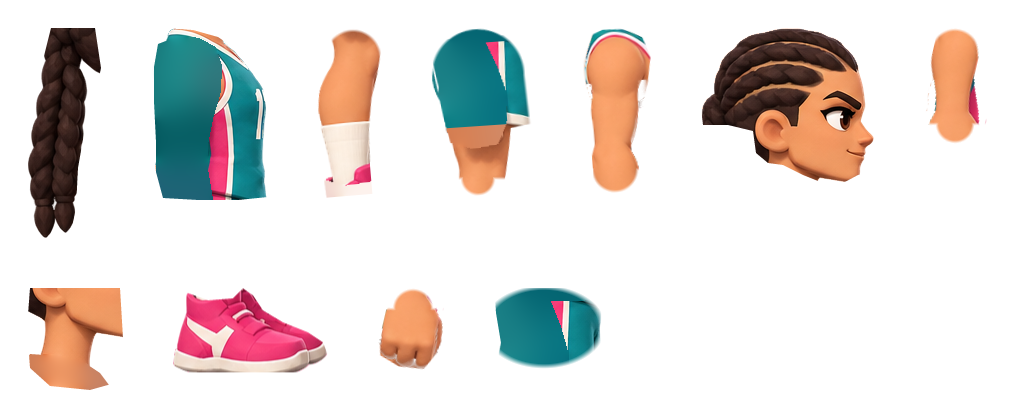
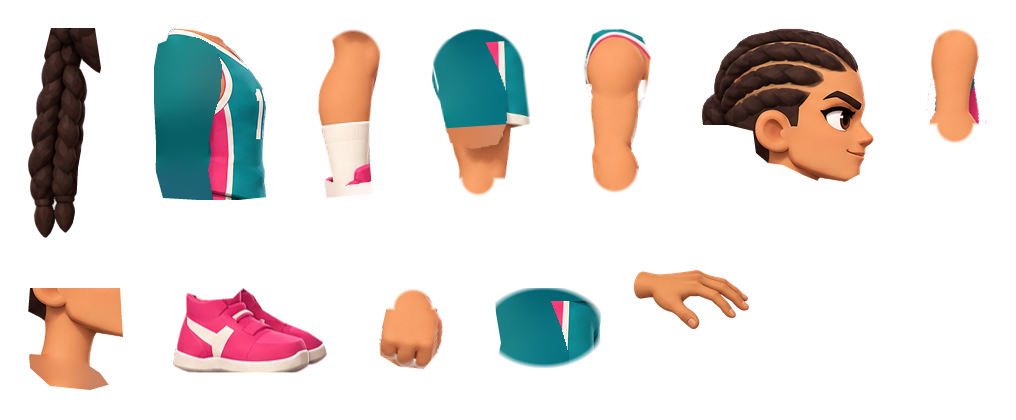
Grafik bereinigt: freie Aufhängungen und offene Hände beim Dribbeln

Changed region(s): [[0.6102, 0.619, 0.7628, 0.7738]]

diff --git a/tools/newdesign/characters.js b/tools/newdesign/characters.js
@@ -409,6 +409,30 @@ function skinned(reg, below) {
 
 // ------------------------------------------------------------------ eine Figur
 
+// Offene Dribbelhände aus dem ergänzenden Bogen: nach rechts gestreckt, Handfläche unten.
+// Der Bogen bleibt als Quelle erhalten; die Hände landen samt Umriss im normalen Figurenatlas.
+async function openHand(id, ppu) {
+    const index = ['dre', 'titan', 'nova'].indexOf(id);
+    if (index < 0) return null;
+    const sheet = sharp(path.join(__dirname, 'sources/dribble-hands.png'));
+    const meta = await sheet.metadata(), cell = Math.floor(meta.width / 3);
+    const { data, info } = await sheet.extract({ left: index * cell, top: 0, width: cell, height: meta.height })
+        .ensureAlpha().raw().toBuffer({ resolveWithObject: true });
+    let x0 = cell, y0 = info.height, x1 = 0, y1 = 0;
+    for (let y = 0; y < info.height; y++) for (let x = 0; x < cell; x++) if (data[(y * cell + x) * 4 + 3] > 64) {
+        x0 = Math.min(x0, x); y0 = Math.min(y0, y); x1 = Math.max(x1, x); y1 = Math.max(y1, y);
+    }
+    const width = Math.round(ppu * [0.40, 0.44, 0.36][index]);
+    const scaled = await sharp(data, { raw: info }).extract({ left: x0, top: y0, width: x1 - x0 + 1, height: y1 - y0 + 1 })
+        .resize(width).extend({ top: 4, bottom: 4, left: 4, right: 4, background: '#00000000' })
+        .raw().toBuffer({ resolveWithObject: true });
+    const W = scaled.info.width, H = scaled.info.height;
+    const buf = Float32Array.from(scaled.data, v => v / 255);
+    const mask = new Float32Array(W * H);
+    for (let i = 0; i < mask.length; i++) mask[i] = buf[i * 4 + 3];
+    return { W, H, buf, mask, px: 4 + width * 0.09, py: 4 + (H - 8) * 0.30 };
+}
+
 async function buildFigure(id) {
     const F = FIG[id];
     const img = await load(id + '.png');
@@ -480,6 +504,8 @@ async function buildFigure(id) {
     armParts(arm, '');
     // hinterer Arm ohne Ärmel (Kompressionsärmel nur am vorderen Arm): helle Stoffpixel bekommen die Hautfarbe der Faust
     if (F.farSkin) armParts(skinned(arm, J.wrist), 'Far');
+    const opened = await openHand(id, ppu);
+    if (opened) parts.OpenHand = opened;
 
     // Maße in Spieleinheiten (Bild-y zeigt nach unten → Spiel-y umdrehen)
     const u = (A, B) => [(B[0] - A[0]) / ppu, -(B[1] - A[1]) / ppu];

diff --git a/tools/newdesign/stages.def.js b/tools/newdesign/stages.def.js
@@ -63,7 +63,7 @@ module.exports = [
         ground: { x: [0, 1345], pad: 9, holes: [[225, 305], [270, 450], [470, 560], [700, 1000], [1040, 1200]] },
         cells: {
             1: ['mushroom', 'stand', {}],
-            2: ['swing', 'stand', { levels: 'swing' }],
+            2: ['swing', 'prop', { levels: 'swing' }],
             3: ['stump', 'stand', { light: [255, 160, 40] }],
             4: ['branch', 'prop', { tags: ['mid'] }],
             6: ['end', 'end', {}],
@@ -75,7 +75,9 @@ module.exports = [
             12: ['leaves', 'prop', { tags: ['back'] }],
         },
         derived: [
-            { name: 'plank', from: 2, kind: 'hang', role: 'float', rope: 'rope' },
+            // Koordinaten im freigestellten Schaukelbild: Brett und Knoten, ohne Gestellfüße.
+            { name: 'plank', from: 2, kind: 'hang', role: 'float', rope: 'rope',
+                keep: [[42, 104, 194, 133], [50, 90, 71, 149], [165, 90, 187, 149]], anchors: [60, 177] },
         ],
     }),
     S('03-Regenwacht.png', {
@@ -142,7 +144,7 @@ module.exports = [
         ground: { x: [0, 1420], pad: 3, holes: [[226, 302], [284, 336], [418, 472], [498, 538], [678, 728], [830, 950], [1036, 1112], [1118, 1162], [1288, 1335], [0, 240]] },
         cells: {
             1: ['table', 'stand', {}],
-            2: ['anvil_frame', 'stand', { levels: 'anvil' }],
+            2: ['anvil_frame', 'prop', { levels: 'anvil' }],
             3: ['lava_ped', 'stand', { light: [255, 110, 30], cut: { glow: true } }],
             4: ['grate', 'stand', { light: [255, 120, 30] }],
             6: ['end', 'end', {}],
@@ -154,7 +156,9 @@ module.exports = [
             12: ['vent', 'prop', { tags: ['back', 'mid'], light: [255, 120, 30], cut: { glow: true } }],
         },
         derived: [
-            { name: 'anvil_hang', from: 2, kind: 'hang', role: 'float', rope: 'chain' },
+            // Nur die beiden Ketten über dem Amboss; der linke Gestellpfosten ist kein Anker.
+            { name: 'anvil_hang', from: 2, kind: 'hang', role: 'float', rope: 'chain',
+                keep: [[46, 78, 160, 150]], anchors: [78, 130] },
         ],
     }),
     S('06-Frostgipfel.png', {

diff --git a/tools/newdesign/stages.js b/tools/newdesign/stages.js
@@ -388,7 +388,16 @@ function capOf(c) {
 }
 
 /** Plank/anvil/beam out of a frame piece, plus the x of its rope/chain anchors (pixels of the result). */
-function hangOf(c, which) {
+function hangOf(c, which, def = {}) {
+    // Explizite Schnittbereiche verhindern, dass verbundene Gestellreste zum Hängeobjekt werden.
+    if (def.keep) {
+        const x0 = Math.min(...def.keep.map(r => r[0])), y0 = Math.min(...def.keep.map(r => r[1]));
+        const x1 = Math.max(...def.keep.map(r => r[2])), y1 = Math.max(...def.keep.map(r => r[3]));
+        const clean = { ...c, buf: Buffer.from(c.buf) };
+        for (let y = 0; y < c.h; y++) for (let x = 0; x < c.w; x++)
+            if (!def.keep.some(r => x >= r[0] && x < r[2] && y >= r[1] && y < r[3])) clean.buf[(y * c.w + x) * 4 + 3] = 0;
+        return { img: crop(clean, x0, y0, x1, y1), anchors: def.anchors.map(x => x - x0) };
+    }
     const s = surface(c);
     if (which == 'top') {
         // the top beam: the first band, a few rows more for its rim
@@ -459,7 +468,7 @@ async function stage(def, common) {
         const src = cuts[d.from];
         if (d.kind == 'cap') list.push({ name: d.name, role: 'float', c: capOf(src), o: {} });
         else if (d.kind == 'hang') {
-            const h = hangOf(src, def.cells[d.from][2].levels ? 'band' : 'top');
+            const h = hangOf(src, def.cells[d.from][2].levels ? 'band' : 'top', d);
             list.push({ name: d.name, role: 'float', c: h.img, o: { anchors: h.anchors, rope: d.rope, walkFrac: 0.7 } });
         }
     }

diff --git a/SoccerFight/Assets/Scripts/World/WorldEnvironment.cs b/SoccerFight/Assets/Scripts/World/WorldEnvironment.cs
@@ -7,7 +7,7 @@ namespace SoccerFight
     /// Die Spielwelt, pro Stage aus ihrem Design-Bogen (Inspiration/StagesNewDesigns, Grafik aus <see cref="StageKit"/>):
     /// Himmel, die gemalte Kulisse (mit Leuchten auf gemalten Laternen, Mond, Lava, Polarlicht …), davor eine
     /// dunstige Mittelgrund-Kante aus dem Bodenmaterial mit der Deko der Stage (Torbögen, Kamine, Kristalle,
-    /// Schmiedeöfen …), der kachelbare Boden, Deko an der Hinterkante des Rasens, Rahmenstücke an den
+    /// Schmiedeöfen …), der kachelbare Boden ohne kleine Deko-Objekte, Rahmenstücke an den
     /// Arenaenden, Tropfsteine oder schwebende Brocken, wo die Stage sie hat. Dazu bewegtes Detail: flackernde
     /// Lichter, pulsierende Kristalle, Nebel, Glühwürmchen, Staub im Licht. Beim Stage-Wechsel wird alles
     /// ausgetauscht (<see cref="ApplyStage"/>); Tore und Plattform-Gruppe bleiben.
@@ -117,7 +117,6 @@ namespace SoccerFight
             BuildBackdrop();
             BuildDrift();
             BuildGround();
-            BuildPitchEdge();
             BuildFrame();
             BuildExtras();
             Game.I?.Grade?.Adopt(stageRoot);
@@ -219,25 +218,6 @@ namespace SoccerFight
             var swirl = Art.MakeSprite("Swirl", portal, MonsterArt.Portal, -58, Art.SpriteGlowMat, Palette.MonsterGlow.WithAlpha(0f));
             swirl.transform.localScale = new Vector3(0.9f, 0.9f, 1f);
             return portal;
-        }
-
-        // ------------------------------------------------------------------ Deko an der Hinterkante des Rasens
-
-        void BuildPitchEdge()
-        {
-            var props = kit.PropsTagged("back");
-            if (props.Count == 0) return;
-            var g = Group("Pitch Edge");
-            Color tint = new Color(0.82f, 0.84f, 0.88f, 1f);
-            // wenige Stücke, locker verteilt: das Spielfeld bleibt ruhig und lesbar
-            for (float x = -15.5f + Range(0f, 2f); x < 15.5f; x += Range(4.2f, 6.5f))
-            {
-                if (Mathf.Abs(x) < 1.6f) continue;
-                var p = Pick(props);
-                float s = Range(0.4f, 0.52f) * PropScale(p);
-                var sr = Put(g, p, new Vector2(x, 0.03f), s, -104, R() > 0.5f, tint);
-                AddPieceLights(g, p, sr.transform.localPosition, s, sr.transform.localScale.x < 0f, -103, 0.7f);
-            }
         }
 
         // ------------------------------------------------------------------ Arenaenden

diff --git a/SoccerFight/Assets/Scripts/Player/PlayerRig.cs b/SoccerFight/Assets/Scripts/Player/PlayerRig.cs
@@ -26,6 +26,10 @@ namespace SoccerFight
         Transform torso, pelvis, neck, head, tuft;
         Leg nearLeg, farLeg;
         Arm nearArm, farArm;
+        Sprite closedHand, openHand;
+        SpriteRenderer nearHandRenderer;
+        bool dribbleOpen;
+        float dribbleHandAngle;
         SpriteRenderer shadow;
         public readonly List<SpriteRenderer> Parts = new List<SpriteRenderer>();
         readonly List<Color> partColors = new List<Color>();
@@ -143,6 +147,7 @@ namespace SoccerFight
                 upper = Part("NearUpperArm", PlayerPart.UpperArmNear, 27, false).transform
             };
             // bones and sport of the chosen character (the duo partner's rig is re-dressed on its first packet)
+            nearHandRenderer = nearArm.hand.GetComponent<SpriteRenderer>();
             if (PlayerArt.Current != null) ApplyLook(PlayerArt.Current);
         }
 
@@ -156,6 +161,8 @@ namespace SoccerFight
             for (int i = 0; i < Parts.Count; i++) Parts[i].sprite = PlayerArt.SpriteOf(look, partKinds[i]);
             body = look.Body ?? PlayerBody.Soccer;
             Sport = look.Sport;
+            closedHand = look.Hand;
+            openHand = look.OpenHand;
             player.Ball?.SetSport(Sport);
         }
 
@@ -476,6 +483,7 @@ namespace SoccerFight
             nearIKw = farIKw = 0f;
             nearWrist = farWrist = 0f;
             nearGripW = farGripW = 0f;
+            dribbleOpen = false;
             if (Sport == Sport.Basketball)
                 HoopsCarry(dt, ref hipY, air, cycleLen, sk, ref nearFoot, ref farFoot, ref leanTarget, ref nearShoulder, ref nearElbow, ref farShoulder, ref farElbow, ref ballLocal);
 
@@ -639,6 +647,10 @@ namespace SoccerFight
             }
             PoseArm(farArm, farSh, farAbs, farElbow, farWrist, farGrip, farGripW);
             PoseArm(nearArm, nearSh, nearAbs, nearElbow, nearWrist, nearGrip, nearGripW);
+            // Die offene Hand streicht über den Ball; ihre Finger zeigen entlang der Balloberfläche.
+            bool showOpen = dribbleOpen && openHand != null;
+            nearHandRenderer.sprite = showOpen ? openHand : closedHand;
+            if (showOpen) nearArm.hand.localRotation = Quaternion.Euler(0f, 0f, dribbleHandAngle);
 
             // --- outputs (world space)
             Vector2 rootW = player.Pos;

diff --git a/SoccerFight/Assets/Scripts/Player/PlayerRig.Hoops.cs b/SoccerFight/Assets/Scripts/Player/PlayerRig.Hoops.cs
@@ -63,9 +63,20 @@ namespace SoccerFight
             float apex = hipY - 0.1f - 0.05f * runBlend;
             float by = R + (apex - R) * Mathf.Abs(Mathf.Cos(Mathf.PI * dribU));
             Vector2 dribble = new Vector2(bx, by);
-            // the hand pushes the ball down part of the way, then waits for it on top
+            dribbleOpen = air < 0.1f && player.CurrentAction == Player.Action.None && player.Ball.IsHeldFree;
+            // Nach dem kurzen Druck federt das Handgelenk zurück und nimmt den aufsteigenden Ball weich an.
+            float press = MathUtil.Bump(Mathf.Clamp01(dribU / 0.32f));
+            dribbleHandAngle = Mathf.Lerp(6f, -22f, press);
+            float palmReach = openHand != null ? openHand.rect.width / openHand.pixelsPerUnit * 0.38f : 0.15f;
+            Vector2 contact = MathUtil.Rotate(new Vector2(palmReach, -0.035f), dribbleHandAngle);
+            // Die Hand folgt nur dem oberen Teil des Sprungs; der Ball fällt danach frei zum Boden.
             Vector2 top = Palm(new Vector2(bx, apex), new Vector2(-0.12f, 1f));
             Vector2 riding = Palm(dribble, new Vector2(-0.12f, 1f));
+            if (dribbleOpen)
+            {
+                top = new Vector2(bx, apex + R) - contact;
+                riding = dribble + Vector2.up * R - contact;
+            }
             Vector2 wrist = riding.y > top.y - 0.15f ? riding : new Vector2(riding.x, top.y - 0.15f);
             float onBall = 1f - MathUtil.Smooth01((wrist.y - riding.y) / 0.08f);
 

diff --git a/SoccerFight/Assets/Scripts/Art/PlayerArt.cs b/SoccerFight/Assets/Scripts/Art/PlayerArt.cs
@@ -24,7 +24,7 @@ namespace SoccerFight
     {
         public Sprite Torso, Pelvis, Neck, Head, HairTuft;
         public Sprite Thigh, Shin, Boot, BootGlow;
-        public Sprite UpperArm, Forearm, Hand;
+        public Sprite UpperArm, Forearm, Hand, OpenHand;
         /// <summary>The front arm when it differs (a compression sleeve on the throwing arm); null: same as the back arm.</summary>
         public Sprite UpperArmNear, ForearmNear;
         public PlayerBody Body = PlayerBody.Soccer;
@@ -176,6 +176,7 @@ namespace SoccerFight
                     case "UpperArm": look.UpperArm = s; break;
                     case "Forearm": look.Forearm = s; break;
                     case "Hand": look.Hand = s; break;
+                    case "OpenHand": look.OpenHand = s; break;
                     case "UpperArmFar": upperFar = s; break;
                     case "ForearmFar": foreFar = s; break;
                 }

diff --git a/README.md b/README.md
@@ -176,9 +176,11 @@ den Gliedern runde, überlappende Gelenkenden, füllt verdeckte Stellen (Rumpf h
 und legt pro Figur einen Atlas + JSON nach `Resources/Characters`. Das JSON enthält auch das Skelett (Knochenlängen,
 Schulter, Hals, Kopf, Zopf-Wurzel), das `PlayerArt` beim Start in den `PlayerBody` der Figur schreibt – das Rig
 bewegt die Teile damit wie gehabt (IK, Federn). Miras Pferdeschwanz und Novas Zöpfe schwingen als eigenes Teil nach;
-Dre trägt den Kompressionsärmel nur am vorderen Arm. Mitgemessen werden auch Faustlänge und Schuhspitze: Beim Dribbeln und bei
-den Basketball-Moves liegt die Faust damit auf dem Ball (sie zeigt zum Ballmittelpunkt, `PlayerRig.Palm/GripNear`), und der
-Ball springt vor dem Schuh auf statt darauf. Neue oder bessere Bögen → Umrisse/Gelenke in `characters.def.js`
+Dre trägt den Kompressionsärmel nur am vorderen Arm. Beim Dribbeln führen DRE, TITAN und NOVA den Ball mit einer offenen
+Hand: Sie drückt kurz nach unten, federt im Handgelenk zurück und nimmt den aufsteigenden Ball wieder an. Die zusätzlichen
+Hände stammen aus `tools/newdesign/sources/dribble-hands.png` und werden von `characters.js` in die Figurenatlanten aufgenommen.
+Für die übrigen Basketball-Moves wird weiterhin die gemessene Faustlänge verwendet (`PlayerRig.Palm/GripNear`). Der
+Ball springt vor der gemessenen Schuhspitze auf statt darauf. Neue oder bessere Bögen → Umrisse/Gelenke in `characters.def.js`
 anpassen und `node characters.js` laufen lassen (`SF_DEBUG=<ordner>` schreibt zusätzlich Prüfbilder).
 Die Schnitte an den Gelenken laufen weich aus, das Hosenbein ist an der Hüfte rund, und was am Rand von Unterarm und
 Faust nach Hose/Trikot aussieht, wird abgeschabt. Neben dem Atlas entsteht eine Umriss-Maske (`<id>_rim.png`): Der
@@ -237,7 +239,7 @@ VSync, FPS-Anzeige, Bildschirmwackeln, Leuchten (Bloom), den Farbsaum-Effekt und
   Eis- und Runensäulen) reichen bis auf den Rasen und werden gleichmäßig so skaliert, dass ihre Oberkante einen Sprung
   hoch liegt; schwebende Inseln, Schollen, Platten und Träger bilden die höheren Ebenen. Hängende Bretter (Seile,
   Bernsteinhain), Balken (Ketten, Regenwacht) und Ambosse (Ketten, Glutschmiede) hängen an Seilen bzw. Ketten, die über
-  den Bildrand reichen; Schaukelgestell und Ambossgestell haben zwei begehbare Ebenen. Unter manchen schwebenden Stücken
+  den Bildrand reichen. Bretter und Ambosse haben genau zwei Aufhängungen, ohne zusätzliche Gestelle oder Tragbalken. Unter manchen schwebenden Stücken
   hängt eine Laterne, ein Banner oder ein Stern. Bilder werden nie verzerrt, nur gleichmäßig skaliert. Alle Plattformen
   sind von unten durchspringbar; wer auf einer bewegten steht, fährt mit. Blobs springen dem Spieler gezielt hinterher
   (erkennbar am langen Ducken davor) und hüpfen von der Kante, wenn der Spieler unten ist. Ball, Schatten, Gras und
@@ -253,7 +255,7 @@ VSync, FPS-Anzeige, Bildschirmwackeln, Leuchten (Bloom), den Farbsaum-Effekt und
   kachelbares Seil und Kette. Alles wird per KI (Real-ESRGAN, `aiup.js`) auf die dreifache Auflösung gebracht, die
   Kulisse bis 4096 px Breite; im Browser werden die Bilder komprimiert (Crunch). Im Spiel (`WorldEnvironment`) von hinten
   nach vorn: Himmel, Kulisse mit eigenen Lichtern (Mond, Laternen, Fenster, Lava, Polarlicht, Eklipse-Ring, Sterne),
-  Nebelbänder, wenige schwebende Brocken im Sternengarten und in der Eklipse, der Boden, einzelne Deko-Stücke an der Hinterkante des Rasens und an den Arenaenden hinter den Toren der
+  Nebelbänder, wenige schwebende Brocken im Sternengarten und in der Eklipse, der Boden ohne kleine nicht benutzbare Deko-Objekte und an den Arenaenden hinter den Toren der
   Bodenabschluss mit Fels plus ein großes Rahmenstück (Baum, Monolith, Flutlichtmast …). Bewegt: flackernde Lichter,
   pulsierende Kristalle mit Lichtfunken, schaukelnde Laternen, wippende Brocken, ziehender Nebel, Glühwürmchen
   (Mondlicht, Bernstein, Grotte), Gras im Wind (Mondlicht) und das Wetter der Stage. Beim Stage-Wechsel wird die ganze

diff --git a/AGENTS.md b/AGENTS.md
@@ -36,6 +36,9 @@ Spieländerungen mitgepflegt werden.**
   Anders als die Welt-Bilder haben die Figuren-Atlanten **normales Alpha** (Shader multipliziert, sonst dunkle Nähte
   an den Gelenken) und eine Umriss-Maske `<id>_rim.png` (Sekundärtextur `_RimMask` für das Mondlicht); Menüfigur-Teile
   brauchen das Material `Art.UiFigureMat`.
+  Offene Dribbelhände für Basketball: Zusatzbogen `tools/newdesign/sources/dribble-hands.png` (mit versioniert),
+  `characters.js` übernimmt ihn als `OpenHand` in die drei Atlanten. Die offene Hand zeigt im Atlas nach rechts
+  statt nach unten; `PlayerRig.Hoops` steuert ihren Ballkontakt und den Winkel im Handgelenk.
 - Die Szene `Assets/Scenes/Game.unity` enthält nur ein GameObject mit `Game`.
 - Skripte: `SoccerFight/Assets/Scripts/` (Namespace `SoccerFight`), Ordner Art, Ball, Combat, Core, Enemies, FX,
   Meta, Net, Player, Run, UI, World, Editor, DevTools.
